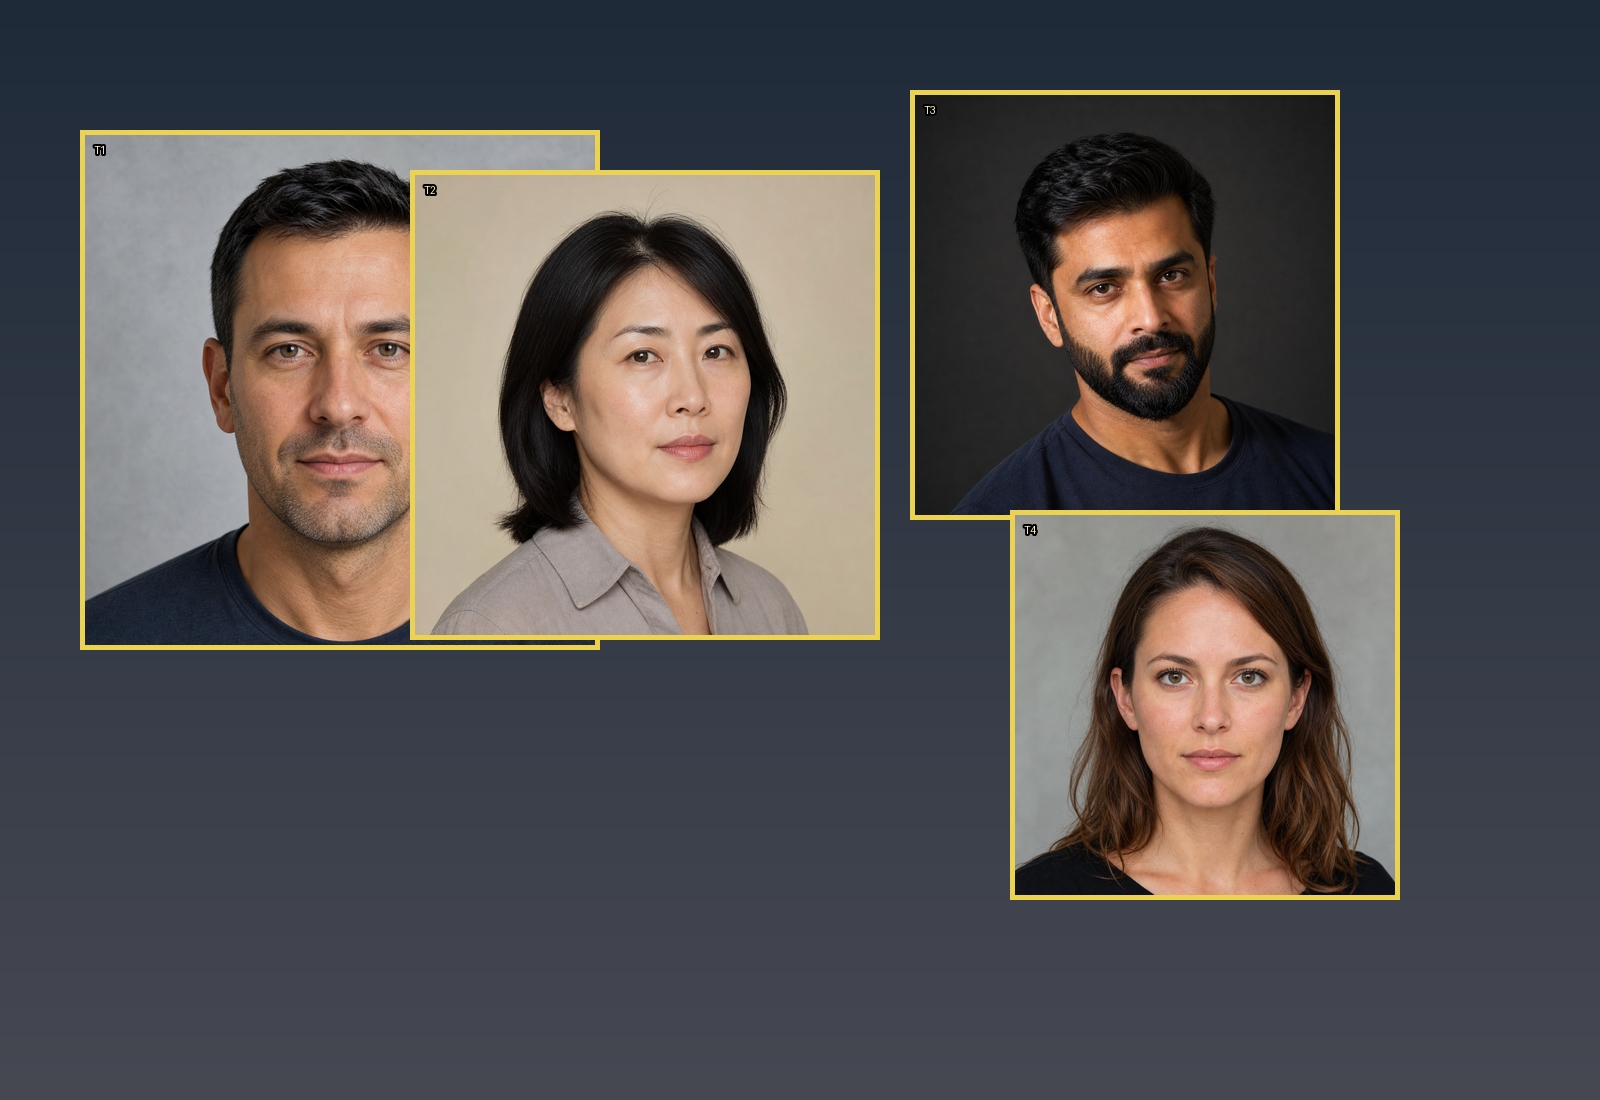
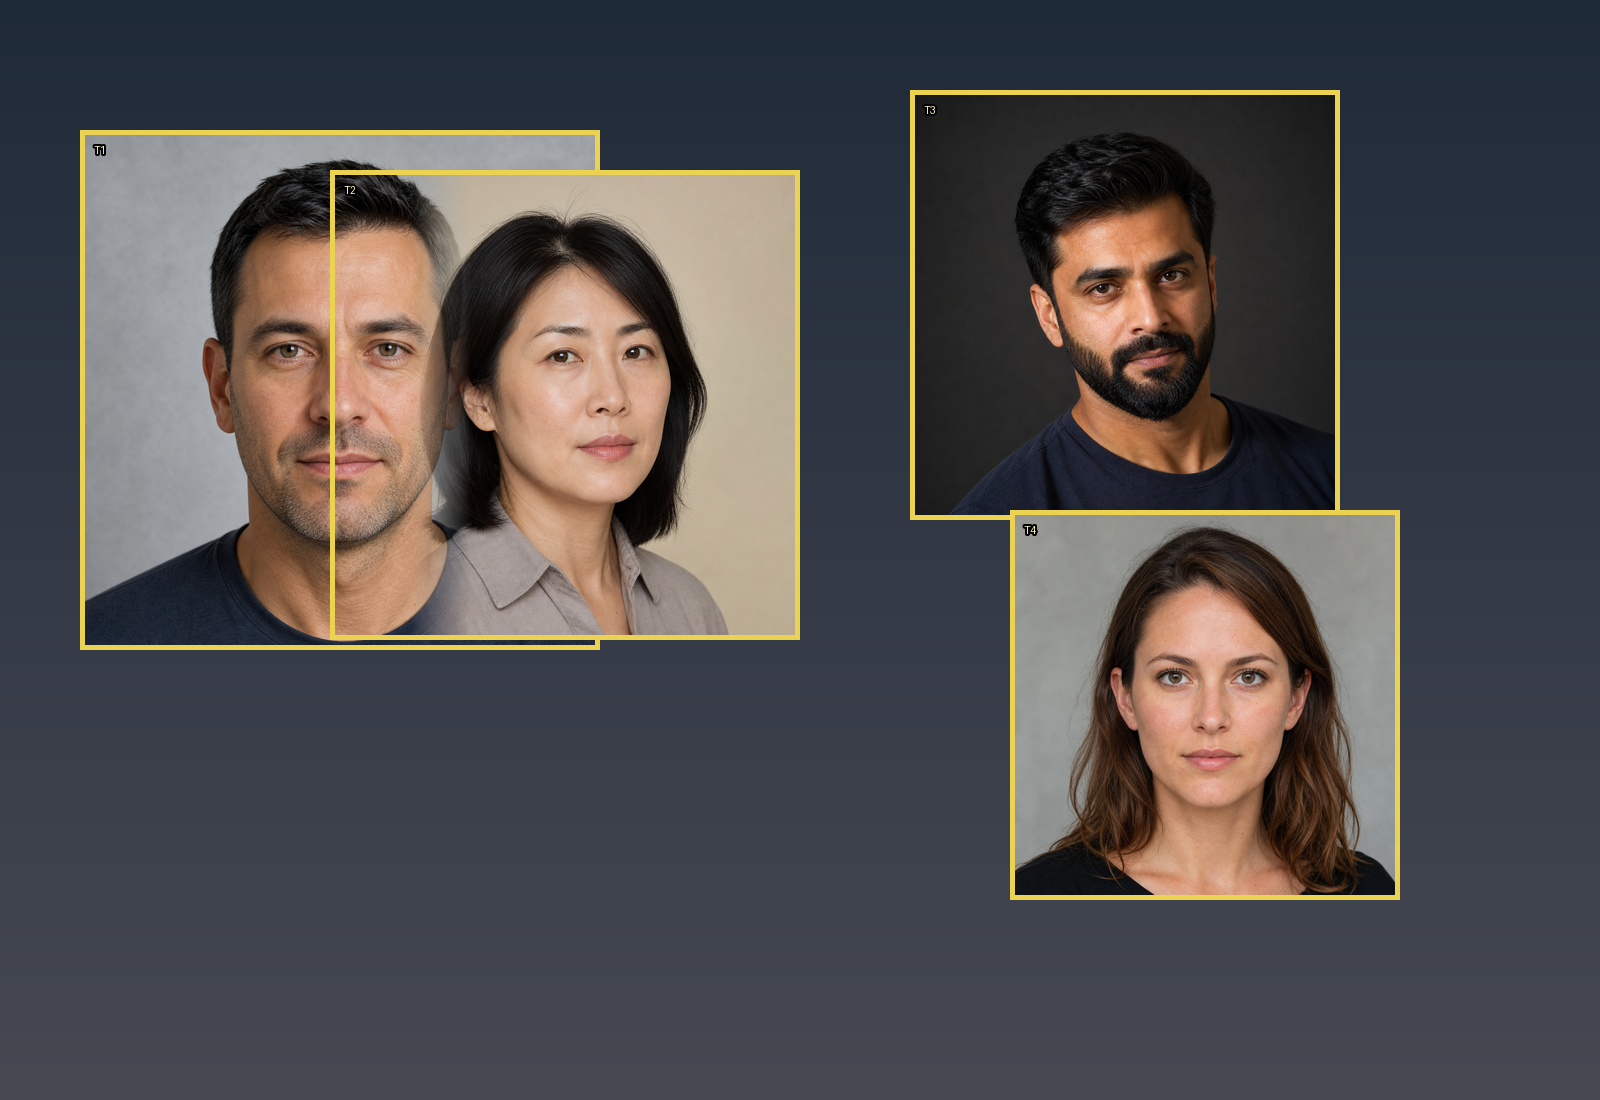
Verify Stage D multi-face inference

Changed region(s): [[0.1875, 0.1545, 0.5625, 0.5873]]

diff --git a/app/src/androidTest/java/com/faceswaplocal/app/inference/StageDMultiFaceInstrumentedTest.kt b/app/src/androidTest/java/com/faceswaplocal/app/inference/StageDMultiFaceInstrumentedTest.kt
@@ -1,0 +1,88 @@
+package com.faceswaplocal.app.inference
+
+import android.content.Context
+import android.graphics.Bitmap
+import android.graphics.BitmapFactory
+import androidx.test.core.app.ApplicationProvider
+import androidx.test.ext.junit.runners.AndroidJUnit4
+import androidx.test.platform.app.InstrumentationRegistry
+import java.io.File
+import java.io.FileOutputStream
+import kotlinx.coroutines.runBlocking
+import org.junit.Assert.assertEquals
+import org.junit.Assert.assertTrue
+import org.junit.Test
+import org.junit.runner.RunWith
+
+@RunWith(AndroidJUnit4::class)
+class StageDMultiFaceInstrumentedTest {
+    private val context = ApplicationProvider.getApplicationContext<Context>()
+    private val assets = InstrumentationRegistry.getInstrumentation().context.assets
+
+    @Test
+    fun threeSourcesReplaceT1T2T3WhileT4AndOutsideUnionStayUntouched() {
+        runBlocking {
+        val store = ModelStore(context)
+        store.refreshStatuses()
+        val raw = OnnxRawFaceSwapPipeline(store)
+        val photo = OnnxPhotoFaceSwapPipeline(store, rawPipeline = raw)
+        val target = bitmap("inputs/stage_d_group_target.png")
+        val sources = (1..3).map { bitmap("inputs/pair_%02d_source.png".format(it)) }
+        val original = target.pixels()
+        val detected = raw.detectFaces(target, RequestedInferenceBackend.CPU_ONLY).first
+        assertEquals("fixture must contain exactly four neural faces", 4, detected.size)
+        val ordered = detected.sortedBy { (it.box.left + it.box.right) / 2.0 }.let { byX ->
+            val right = byX.takeLast(2).sortedBy { (it.box.top + it.box.bottom) / 2.0 }
+            listOf(byX[0], byX[1], right[0], right[1])
+        }
+        var base: IntArray? = null
+        var previous: Bitmap? = null
+        val rois = mutableListOf<CompositeRoi>()
+        val embeddings = mutableMapOf<Int, FloatArray>()
+        try {
+            for (index in 0..2) {
+                val result = photo.process(
+                    PhotoFaceSwapRequest(
+                        source = sources[index], target = target,
+                        sourceFaceHint = FaceBox(0.0, 0.0, sources[index].width.toDouble(), sources[index].height.toDouble()),
+                        targetFaceHint = ordered[index].box,
+                        resolvedTargetFaces = detected,
+                        basePixels = base,
+                        cachedSourceEmbedding = embeddings[index],
+                        backend = RequestedInferenceBackend.CPU_ONLY,
+                    ),
+                )
+                previous?.recycle()
+                previous = result.finalBitmap
+                base = result.finalBitmap.pixels()
+                embeddings[index] = result.sourceEmbedding
+                rois += result.pasteRoi
+                assertTrue("T${index + 1} must change", changedInBox(original, base, target.width, ordered[index].box) > 100)
+            }
+            val finalPixels = requireNotNull(base)
+            assertEquals("T4 must remain bit-identical", 0, changedInBox(original, finalPixels, target.width, ordered[3].box))
+            assertEquals("pixels outside union of paste ROIs", 0, outsideUnionChanges(original, finalPixels, target.width, target.height, rois))
+            val overlap = intersect(rois[0], rois[1])
+            assertTrue("T1/T2 paste ROIs must overlap", overlap.width > 0 && overlap.height > 0)
+            assertTrue("overlap must contain the second paste, not original", changedInRoi(original, finalPixels, target.width, overlap) > 20)
+            val output = File(context.filesDir, "stage-d-output").apply { mkdirs() }
+            FileOutputStream(File(output, "STAGE_D_MULTI_FACE_RESULT.png")).use {
+                requireNotNull(previous).compress(Bitmap.CompressFormat.PNG, 100, it)
+            }
+        } finally {
+            embeddings.values.forEach { it.fill(0f) }
+            embeddings.clear()
+            previous?.recycle()
+            sources.forEach(Bitmap::recycle)
+            target.recycle()
+        }
+        }
+    }
+
+    private fun bitmap(path: String) = assets.open(path).use { requireNotNull(BitmapFactory.decodeStream(it)).copy(Bitmap.Config.ARGB_8888, false) }
+    private fun Bitmap.pixels() = IntArray(width * height).also { getPixels(it, 0, width, 0, 0, width, height) }
+    private fun changedInBox(a: IntArray, b: IntArray, width: Int, box: FaceBox): Int = changedInRoi(a, b, width, CompositeRoi(box.left.toInt().coerceAtLeast(0), box.top.toInt().coerceAtLeast(0), box.right.toInt(), box.bottom.toInt()))
+    private fun changedInRoi(a: IntArray, b: IntArray, width: Int, roi: CompositeRoi): Int = (roi.top until roi.bottom).sumOf { y -> (roi.left until roi.right).count { x -> a[y * width + x] != b[y * width + x] } }
+    private fun outsideUnionChanges(a: IntArray, b: IntArray, width: Int, height: Int, rois: List<CompositeRoi>): Int = (0 until height).sumOf { y -> (0 until width).count { x -> rois.none { x in it.left until it.right && y in it.top until it.bottom } && a[y * width + x] != b[y * width + x] } }
+    private fun intersect(a: CompositeRoi, b: CompositeRoi) = CompositeRoi(maxOf(a.left, b.left), maxOf(a.top, b.top), minOf(a.right, b.right), minOf(a.bottom, b.bottom))
+}

diff --git a/app/src/main/java/com/faceswaplocal/app/inference/ModelStore.kt b/app/src/main/java/com/faceswaplocal/app/inference/ModelStore.kt
@@ -111,6 +111,7 @@ class ModelStore(
 ) {
     private val modelDirectory = File(context.filesDir, MODEL_DIRECTORY_NAME)
     private val operationMutex = Mutex()
+    private val verifiedThisProcess = mutableSetOf<ModelId>()
     private val mutableStatuses = MutableStateFlow(initialStatuses())
 
     val statuses: StateFlow<Map<ModelId, ModelStatus>> = mutableStatuses.asStateFlow()
@@ -203,6 +204,7 @@ class ModelStore(
             }
 
             setStatus(descriptor.id, ModelStatus.Ready(observation.sizeBytes))
+            verifiedThisProcess += descriptor.id
             ModelImportResult.Imported(descriptor.id, observation.sizeBytes)
         } catch (cancelled: CancellationException) {
             setStatus(
@@ -294,6 +296,9 @@ class ModelStore(
         if (!destination.isFile) {
             return ModelStatus.Missing.also { setStatus(descriptor.id, it) }
         }
+        if (descriptor.id in verifiedThisProcess && destination.length() == descriptor.expectedSizeBytes) {
+            return ModelStatus.Ready(destination.length()).also { setStatus(descriptor.id, it) }
+        }
 
         val observation = try {
             ModelFileIntegrity.hash(destination)
@@ -314,6 +319,7 @@ class ModelStore(
             existingCopyRetained = true,
         )
         return if (details == null) {
+            verifiedThisProcess += descriptor.id
             ModelStatus.Ready(observation.sizeBytes)
         } else {
             ModelStatus.Invalid(details)

diff --git a/app/src/main/java/com/faceswaplocal/app/inference/OnnxMultiPhotoFaceSwapPipeline.kt b/app/src/main/java/com/faceswaplocal/app/inference/OnnxMultiPhotoFaceSwapPipeline.kt
@@ -30,6 +30,7 @@ class OnnxMultiPhotoFaceSwapPipeline(
         var accumulated: IntArray? = null
         val sourceEmbeddings = mutableMapOf<FaceId, FloatArray>()
         var last: PhotoFaceSwapResult? = null
+        try {
         for (targetFace in targetsInStableOrder) {
             coroutineContext.ensureActive()
             val assignment = assignments.firstOrNull { it.targetId == targetFace.id } ?: continue
@@ -55,6 +56,10 @@ class OnnxMultiPhotoFaceSwapPipeline(
         }
         return last?.let { result ->
             result.copy(timings = result.timings.copy(totalMs = SystemClock.elapsedRealtime() - started))
+        }
+        } finally {
+            sourceEmbeddings.values.forEach { it.fill(0f) }
+            sourceEmbeddings.clear()
         }
     }
 

diff --git a/docs/parity/inputs/make_group_fixture.py b/docs/parity/inputs/make_group_fixture.py
@@ -24,13 +24,25 @@ def main() -> None:
     # First two overlap deliberately: their 128-pixel model paste ROIs overlap after scale.
     placements = [
         ("pair_01_target.png", 80, 130, 520),
-        ("pair_02_target.png", 410, 170, 470),
+        ("pair_02_target.png", 330, 170, 470),
         ("pair_03_target.png", 910, 90, 430),
         ("pair_01_source.png", 1010, 510, 390),
     ]
     for index, (filename, left, top, size) in enumerate(placements, 1):
         image = portrait(filename, size)
-        canvas.paste(image, (left, top))
+        if index == 2:
+            # Preserve T1 while bringing the actual faces close enough that their
+            # affine paste ROIs overlap. The fade is deterministic and affects only
+            # the left background edge of T2, not its face.
+            mask = Image.new("L", (size, size), 255)
+            mask_pixels = mask.load()
+            for x in range(140):
+                alpha = max(0, min(255, (x - 80) * 255 // 60))
+                for y in range(size):
+                    mask_pixels[x, y] = alpha
+            canvas.paste(image, (left, top), mask)
+        else:
+            canvas.paste(image, (left, top))
         draw.rectangle((left, top, left + size - 1, top + size - 1), outline=(235, 210, 80), width=5)
         draw.text((left + 14, top + 14), f"T{index}", fill=(255, 245, 180), stroke_width=2, stroke_fill=(0, 0, 0))
     canvas.save(OUT, "PNG", optimize=False)
